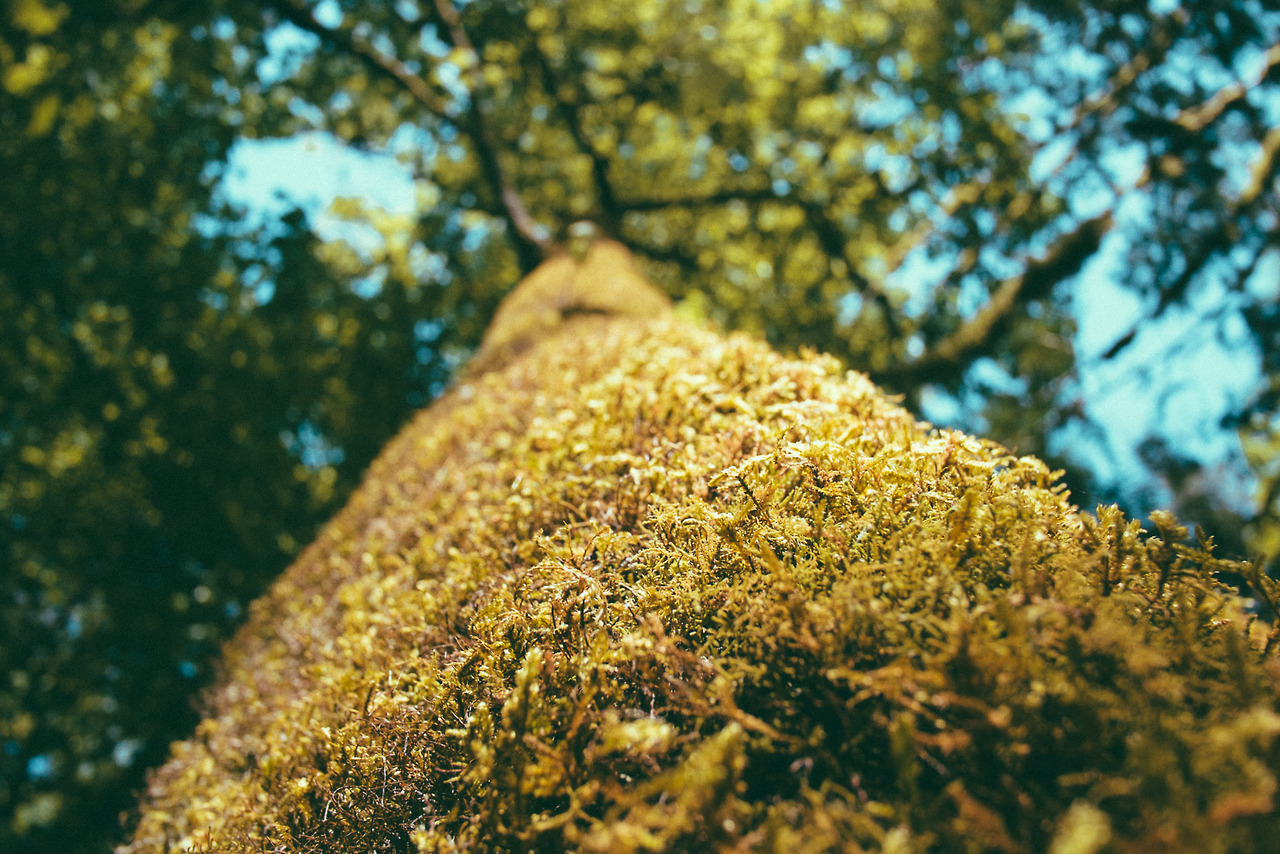
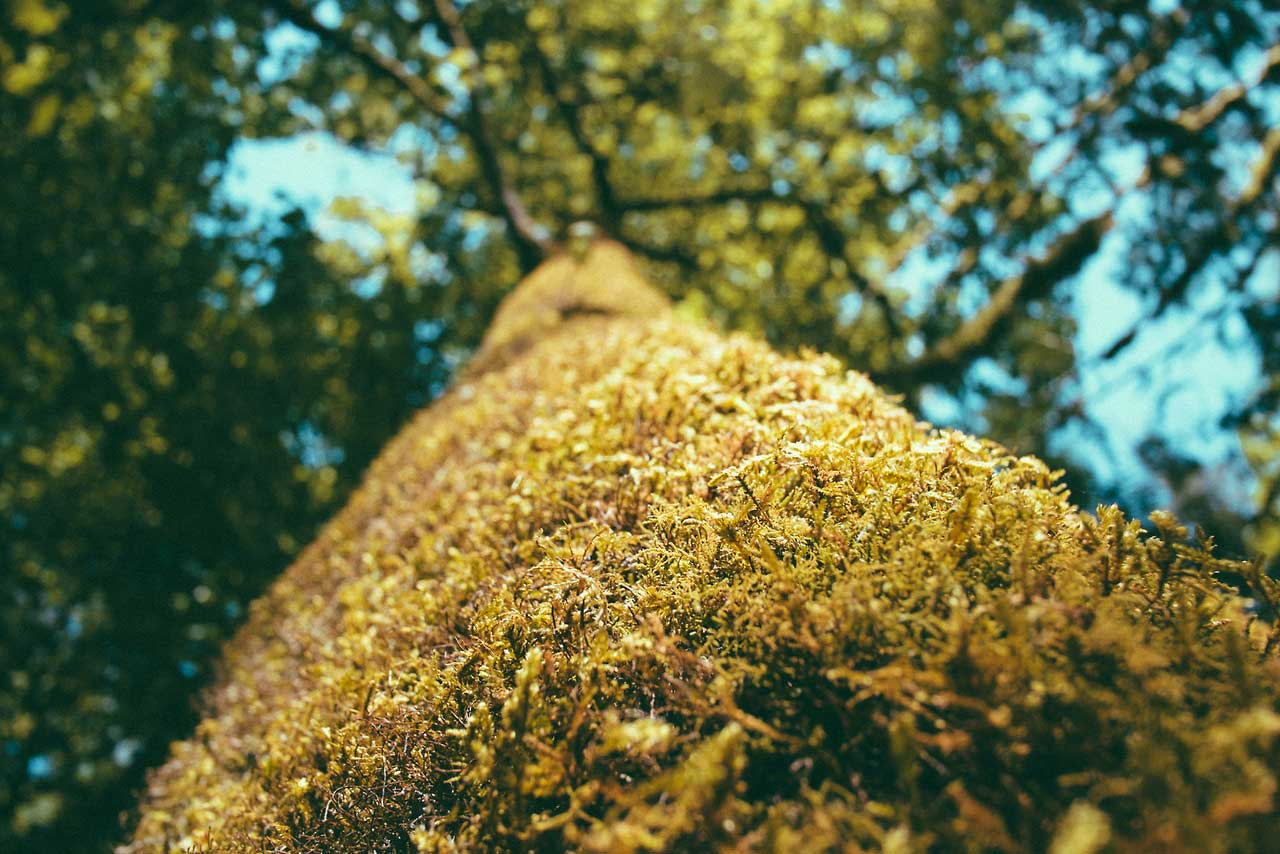
optimise background image & fix dashboard background image css link

Changed region(s): [[0.1562, 0.4871, 0.9062, 1.0]]

diff --git a/app/assets/stylesheets/base.css.scss b/app/assets/stylesheets/base.css.scss
@@ -247,7 +247,7 @@ div.hero{
 		  text-shadow: 4px 4px 4px rgba(0, 0, 0, 0.8);
 		}
 	}
-	
+
 	&#about{
 		background-image: url('../imgs/lake-1.png');
 //    background-position: center;
@@ -537,7 +537,7 @@ div#button-row {
       border-bottom: 1px solid #ddd;
       padding-bottom: 10px;
       margin: 0 0 20px 0;
-    } 
+    }
       textarea {
         margin-bottom: 8px;
       }
@@ -788,7 +788,7 @@ div#button-row {
   				box-shadow: none;
   				&:hover {
   					a{
-  						color: #fff;						
+  						color: #fff;
   					}
   					border: 1px solid $blue;
   					-webkit-transition: all 0.5s ease;
@@ -1054,7 +1054,7 @@ ul#content, ul#content-small {
       &.content_type {
         border-left: 5px solid $blue;
       }
-		}		
+		}
 		span.badge{
 			margin-top: 0.5%;
 			margin-left: 5%;
@@ -1128,7 +1128,7 @@ div.data_policy-small {
    font-size: 1em;
    font-weight: 300;
    font-family: "museo-sans", Helvetica, Arial, sans-serif;
- } 
+ }
 }
 
 
@@ -1238,7 +1238,7 @@ div#footer_container {
   margin: auto;
 }
 
-ul.footer{	
+ul.footer{
   list-style: none;
   overflow: hidden;
 	li{
@@ -1323,20 +1323,20 @@ section.group.staff {
   width: 47.5%;
   margin-right: 5%;
   float: left;
-  &:nth-child(2n) {  
+  &:nth-child(2n) {
     margin-right: 0;
   }
-  &:nth-child(2n+3) {  
+  &:nth-child(2n+3) {
     clear: left;
-  } 
+  }
   img{
     padding-bottom: 0;
   }
-  
+
   h4 {
     padding: 10px 0 0 0;
   }
-  
+
   p {
     margin-bottom: 0;
   }
@@ -1528,7 +1528,7 @@ div.column-2-3.left#job_application {
         padding: 0 8px 0 0;
         cursor: pointer;
         &:last-of-type{
-         border: none; 
+         border: none;
          padding: 0 0 0 4px;
          i {
            font-size: 1.25em;
@@ -1673,7 +1673,7 @@ div.dashboard-background {
   position: fixed;
   top: 0;
   z-index: -9999;
-  background-image: url('dashboard_background.jpg');
+  background-image: image-url('dashboard_background.jpg');
   background-position: top;
   -webkit-background-size: cover;
   -moz-background-size: cover;
@@ -1709,7 +1709,7 @@ div.dashboard {
     height: 30px;
     margin: 20px auto 20px auto;
   }
-  
+
   header h1 {
     font-size: 1.75em;
     color: white;
@@ -1738,7 +1738,7 @@ div.dashboard {
           width: 89%;
           padding: 5px 0 10px 0;
         	font-family: "museo-sans", Helvetica, Arial, sans-serif;
-        	color: #fff;       	
+        	color: #fff;
         	background: none;
         	border: none;
         	font-size: 1.1em;
@@ -1756,7 +1756,7 @@ div.dashboard {
         	color: rgba(255, 255, 255, 1);
         	text-shadow: 2px 2px 2px rgba(0, 0, 0, 0.6);
         }
-        input:-ms-input-placeholder { 
+        input:-ms-input-placeholder {
         	color: rgba(255, 255, 255, 1);
         	text-shadow: 2px 2px 2px rgba(0, 0, 0, 0.6);
         }
@@ -1784,7 +1784,7 @@ div.dashboard {
       border: 2px solid #fff;
       font-size: 1.25em;
     	font-family: "museo-sans", Helvetica, Arial, sans-serif;
-    	font-weight: 400;      
+    	font-weight: 400;
       padding: 5px 15px;
       cursor: pointer;
       -webkit-border-radius: 3px;
@@ -1793,7 +1793,7 @@ div.dashboard {
     	text-shadow: 2px 2px 2px rgba(0, 0, 0, 0.6);
     }
   }
-  
+
   section.group {
     margin-top: 30px;
     &:last-child {
@@ -1873,7 +1873,7 @@ div.dashboard {
         font-weight: bold;
       }
     }
-    
+
     .stat.carbon > div {
       border-top: 1px solid $grey;
     }
@@ -1918,13 +1918,13 @@ div.dashboard {
       }
     }
   }
-  
+
   .bar-percentage {
     float: left;
     color: $dark_grey;
     padding: 0;
   }
-  
+
   .bar-container {
     -webkit-border-radius: 10px;
     -moz-border-radius: 10px;
@@ -1937,7 +1937,7 @@ div.dashboard {
     right: 20px;
     margin-top: 10px;
   }
-  
+
   .bar {
     float: left;
     background: $blue;
@@ -1969,14 +1969,14 @@ div.dashboard {
       padding: 15px;
     }
   }
-  
+
   div.species-container {
     border-top: 1px solid $grey;
     &:first-child {
       border-top: none;
     }
   }
-  
+
   ol > div.species-container li {
     position:relative; /* Create a positioning context */
     margin:0 0 0 3em; /* Give each list item a left margin to make room for the numbers */
@@ -2000,11 +2000,11 @@ div.dashboard {
       color: #888;
     }
   }
-  
+
   div.species-count {
     display: none;
   }
-  
+
   ol > div.species-container li:before {
     content:counter(li); /* Use the counter as content */
     counter-increment:li; /* Increment the counter by 1 */
@@ -2024,23 +2024,23 @@ div.dashboard {
     font-family: "museo-sans", Helvetica, Arial, sans-serif;
     text-align: center;
   }
-  
+
   ol > div.species-container li.list-0:before {
     background: #4295D5;
   }
-  
+
   ol > div.species-container li.list-1:before {
     background: #4B92D5;
   }
-  
+
   ol > div.species-container li.list-2:before {
     background: #66A4DD;
   }
-  
+
   ol > div.species-container li.list-3:before {
     background: #85B7E4;
   }
-  
+
   ol > div.species-container li.list-4:before {
     background: #AFD1ED;
   }
@@ -2050,7 +2050,7 @@ div.dashboard {
       line-height: 1.5;
     }
   }
-  
+
 
 
 .dropdown-menu {
